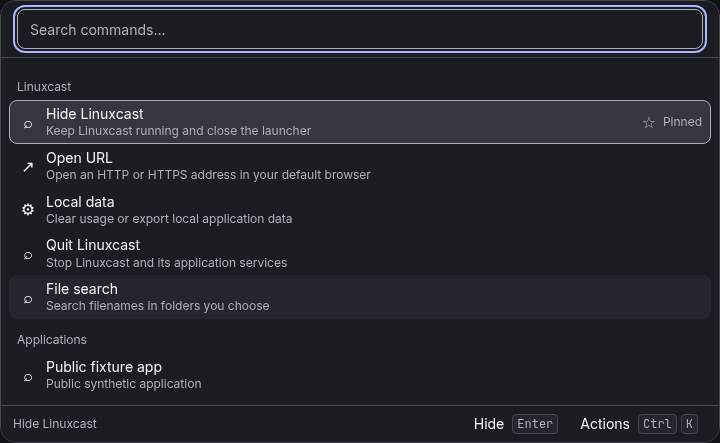
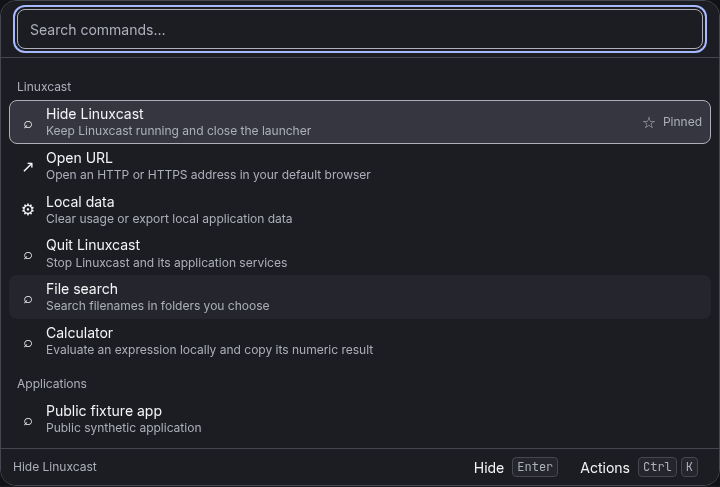
Verify real calculator clipboard flow and record acceptance evidence

diff --git a/apps/desktop/tests/calculator.integration.test.ts b/apps/desktop/tests/calculator.integration.test.ts
@@ -29,8 +29,8 @@ it('evaluates through the production launcher and copies only an explicit numeri
   const app=application,page=await app.firstWindow();await page.waitForURL('linuxcast-app://shell/index.html');
   await app.evaluate(async({clipboard})=>{await clipboard.writeText('PUBLIC_CLIPBOARD_SENTINEL');});expect(clipboardText()).toBe('PUBLIC_CLIPBOARD_SENTINEL');
   const query=page.getByRole('searchbox',{name:'Search commands',exact:true});await query.waitFor();await query.fill('ordinary words about tomorrow');await expect.poll(()=>page.getByRole('option').count()).toBe(0);expect(clipboardText()).toBe('PUBLIC_CLIPBOARD_SENTINEL');
-  const open=async()=>{await query.fill('calculator');await expect.poll(()=>page.getByRole('option',{selected:true}).textContent()).toContain('Calculator');await query.press('Enter');await page.getByRole('textbox',{name:'Expression',exact:true}).waitFor();};
-  await open();const expression=page.getByRole('textbox',{name:'Expression',exact:true});await expression.fill('2 + 3 * 4');expect(clipboardText()).toBe('PUBLIC_CLIPBOARD_SENTINEL');
+  const open=async()=>{await query.fill('calculator');await expect.poll(()=>page.getByRole('option',{selected:true}).textContent()).toContain('Calculator');await query.press('Enter');await page.getByRole('textbox',{name:'Expression (required)',exact:true}).waitFor();};
+  await open();const expression=page.getByRole('textbox',{name:'Expression (required)',exact:true});await expression.fill('2 + 3 * 4');expect(clipboardText()).toBe('PUBLIC_CLIPBOARD_SENTINEL');
   await page.getByRole('button',{name:'Evaluate',exact:true}).click();await page.getByRole('heading',{name:'Calculation',exact:true}).waitFor();await expect.poll(()=>page.getByText('14',{exact:true}).count()).toBe(1);expect(clipboardText()).toBe('PUBLIC_CLIPBOARD_SENTINEL');
   const evidence=join(root,'packages/builtins/calculator/evidence');mkdirSync(evidence,{recursive:true});
   for(const theme of ['dark','light'] as const){await app.evaluate(({nativeTheme},value)=>{nativeTheme.themeSource=value;},theme);await expect.poll(()=>page.locator('.lc-theme').getAttribute('data-lc-theme')).toBe(theme);await page.screenshot({path:join(evidence,`application-${theme}-result.png`)});expect((await new AxeBuilder({page}).setLegacyMode().analyze()).violations).toEqual([]);}
@@ -44,7 +44,7 @@ it('evaluates through the production launcher and copies only an explicit numeri
   expect(await page.evaluate(async()=>await (window as unknown as {linuxcast:DesktopShellApi}).linuxcast.hideLauncher())).toMatchObject({ok:true});
   await expect.poll(()=>app.evaluate(({BrowserWindow})=>BrowserWindow.getAllWindows()[0]!.isVisible())).toBe(false);
   await new Promise<void>((resolve,reject)=>{const child=spawn(executable,[wrapper,'--show'],{env,stdio:'ignore'});const timer=setTimeout(()=>{child.kill('SIGKILL');reject(new Error('Reopen deadline.'));},10000);child.once('error',reject);child.once('exit',code=>{clearTimeout(timer);if(code===0)resolve();else reject(new Error('Reopen failed.'));});});
-  await query.waitFor();await expect.poll(()=>page.getByRole('textbox',{name:'Expression',exact:true}).count()).toBe(0);expect(clipboardText()).toBe('521');
+  await query.waitFor();await expect.poll(()=>page.getByRole('textbox',{name:'Expression (required)',exact:true}).count()).toBe(0);expect(clipboardText()).toBe('521');
   await query.fill('quit');await expect.poll(()=>page.getByRole('option',{selected:true}).textContent()).toContain('Quit Linuxcast');const exited=new Promise<number|null>(resolve=>app.process().once('exit',resolve));await query.press('Enter',{noWaitAfter:true});expect(await exited).toBe(0);application=undefined;
   const owner=await StorageOwner.open({dataDirectory:join(temporary,'data/linuxcast'),applicationBuild:'synthetic-calculator-reopen'});
   try{const exported=owner.request({schemaVersion:1,requestId:randomUUID(),method:'dataControls.export',params:{category:'command-usage'}});expect(exported.result).toMatchObject({records:expect.arrayContaining([expect.objectContaining({commandId:'linuxcast:calculator',useCount:2})])});const text=JSON.stringify(exported);for(const expression of ['2 + 3 * 4',secondExpression,'process.exit()','1 / 0'])expect(text).not.toContain(expression);}finally{await owner.close();}

diff --git a/apps/desktop/src/features/launcher/tests/calculator-routing.test.ts b/apps/desktop/src/features/launcher/tests/calculator-routing.test.ts
@@ -1,0 +1,28 @@
+import { afterEach,expect,it,vi } from 'vitest';
+import type { CalculatorCopyReply,LauncherApi } from '@linuxcast/contracts';
+import { LauncherController } from '../controller.ts';
+const controllers:LauncherController[]=[];
+afterEach(()=>{for(const controller of controllers.splice(0))controller.dispose();});
+const settle=()=>new Promise(resolve=>setTimeout(resolve,0));
+function setup(copyCalculatorResult:NonNullable<LauncherApi['copyCalculatorResult']>=vi.fn<NonNullable<LauncherApi['copyCalculatorResult']>>(async()=>({ok:true,value:{outcome:'copied',text:'6'}}))){
+  let revision=1;
+  const api:LauncherApi={copyCalculatorResult,getLauncherCommands:vi.fn<LauncherApi['getLauncherCommands']>(async()=>({ok:true,value:{revision,rankingAvailable:true,commands:[{id:'linuxcast:calculator',title:'Calculator',aliases:['calc'],keywords:['math'],enabled:true,usage:null}]}})),executeLauncherCommand:vi.fn(),openLauncherUrl:vi.fn(),setLauncherPinned:vi.fn(),setLauncherAlias:vi.fn()};
+  const controller=new LauncherController(api,vi.fn(async()=>({ok:true as const,value:null})));controllers.push(controller);controller.setVisible(true);
+  return {api,controller,nextRevision:()=>{revision++;}};
+}
+function top(f:ReturnType<typeof setup>){return f.controller.session.getSnapshot().frames.at(-1)!;}
+async function open(f:ReturnType<typeof setup>){const frame=top(f);f.controller.session.select(frame.view.viewId,'linuxcast:calculator');await f.controller.execute({viewId:frame.view.viewId,revision:frame.view.revision,actionId:'linuxcast:calculator',itemId:'linuxcast:calculator'});}
+async function evaluate(f:ReturnType<typeof setup>){const frame=top(f);await f.controller.execute({viewId:frame.view.viewId,revision:frame.view.revision,actionId:'calculator:evaluate',values:{expression:'3+3'}});}
+function copy(f:ReturnType<typeof setup>){const frame=top(f);return f.controller.execute({viewId:frame.view.viewId,revision:frame.view.revision,actionId:'calculator:copy'});}
+it('routes an explicitly selected Calculator into local views and sends no expression until Copy result',async()=>{
+  const f=setup();await settle();await open(f);expect(top(f).view).toMatchObject({kind:'form',title:'Calculator'});await evaluate(f);expect(top(f).view).toMatchObject({kind:'detail',title:'Calculation',metadata:[{label:'Expression',value:'3+3'},{label:'Result',value:'6'}]});
+  expect(f.api.executeLauncherCommand).not.toHaveBeenCalled();expect(f.api.copyCalculatorResult).not.toHaveBeenCalled();expect(f.api.getLauncherCommands).toHaveBeenCalledTimes(1);
+  await copy(f);expect(f.api.copyCalculatorResult).toHaveBeenCalledExactlyOnceWith({revision:1,expression:'3+3'});
+});
+it('clears both calculator frames on Hide, ignores late copy receipts and reopens with a fresh registry revision',async()=>{
+  let finish!:(reply:CalculatorCopyReply)=>void;const writer=vi.fn<NonNullable<LauncherApi['copyCalculatorResult']>>().mockImplementationOnce(()=>new Promise(resolve=>{finish=resolve;})).mockResolvedValue({ok:true,value:{outcome:'copied',text:'6'}});
+  const f=setup(writer);await settle();await open(f);await evaluate(f);const pending=copy(f);f.controller.setVisible(false);await pending;expect(f.controller.session.getSnapshot().frames).toHaveLength(1);
+  f.nextRevision();f.controller.setVisible(true);await settle();await open(f);expect(top(f).view).toMatchObject({kind:'form',fields:[{id:'expression',value:''}]});
+  finish({ok:true,value:{outcome:'copied',text:'6'}});await settle();expect(top(f).view.kind).toBe('form');expect(top(f).view.status?.message??'').not.toContain('copied');
+  await evaluate(f);await copy(f);expect(writer).toHaveBeenLastCalledWith({revision:2,expression:'3+3'});
+});

diff --git a/docs/implementation/tasks/L2-04.md b/docs/implementation/tasks/L2-04.md
@@ -40,11 +40,19 @@ Shared contracts, dependency manifests, lockfiles, migration numbering and task 
 
 ## Acceptance
 
-- [ ] **pending** `L2-04-AC01` — No eval or background query transmission; ordinary words do not hijack search.
+- [x] **passed** `L2-04-AC01` — No eval or background query transmission; ordinary words do not hijack search.
+  - Command/check: `bun run test:unit -- L2-04; bun run test:ui -- L2-04; LINUXCAST_PRIVATE_DISPLAY=1 xvfb-run -a bun run test:integration -- L2-04`.
+    Outcome: Current arithmetic/functions implementation uses the reviewed bounded pure parser (e52a755/src/evaluate.ts), no eval/newFunction/dynamic execution/I/O/network.157 independent grammar/domain/resource fixtures plus29presentation and2launcher routing checks pass; explicit Evaluate is local and Copy is the sole expression IPC. Actual production private-Xvfb flow confirms ordinary-word query produces no calculator result or clipboard action.10browser checks observe no external requests; renderer CSP denies arbitrary connections. Full units/dates/colours/explicit-rate scope remains pending under AC02, not inferred complete.
+    Platform/backend: Linux amd64 development host; verified Node24.22.1/Bun1.4.4, Electron45.0.0/SQLite3.53.4; private Xvfb/X11 with separate native xclip reader and Chromium fixtures. No supported Debian/GNOME/KDE/native AT or release claim.
+    Reference: e52a755/44960d8/35a93e9; packages/builtins/calculator/src/evaluate.ts; packages/builtins/calculator/README.md; packages/builtins/calculator/GRAMMAR.md; apps/desktop/tests/calculator.integration.test.ts; packages/builtins/calculator/evidence/
 - [ ] **pending** `L2-04-AC02` — DST/unit/colour fixtures pass and stale/offline rates are labelled.
 - [ ] **pending** `L2-04-UI` — Relevant design states and keyboard/accessibility paths are covered for user-facing changes.
   - Applies when: This task introduces or changes user-facing behaviour.
-- [ ] **pending** `L2-04-PRIVACY` — No secrets/private content enter fixtures, diagnostics or screenshots.
+- [x] **passed** `L2-04-PRIVACY` — No secrets/private content enter fixtures, diagnostics or screenshots.
+  - Command/check: `bun run test:unit -- L2-04; bun run test:ui -- L2-04; LINUXCAST_PRIVATE_DISPLAY=1 xvfb-run -a bun run test:integration -- L2-04`.
+    Outcome: Only public synthetic expressions appear in fixtures/screenshots. Parser and main/preload use fixed safe failures. Actual private-Xvfb/native xclip check uses isolated HOME/XDG/profile/display; real post-Quit owner command-usage export contains only aggregate count2 and none of the evaluated/invalid expressions. No expression/result history or raw clipboard content logging is introduced. Evidence README.md, GRAMMAR.md, calculator.integration.test.ts and inspected dark/light/affected-state PNGs.
+    Platform/backend: Linux amd64 development host; verified Node24.22.1/Bun1.4.4, Electron45.0.0/SQLite3.53.4; private Xvfb/X11 with separate native xclip reader and Chromium fixtures. No supported Debian/GNOME/KDE/native AT or release claim.
+    Reference: e52a755/44960d8/35a93e9; packages/builtins/calculator/src/evaluate.ts; packages/builtins/calculator/README.md; packages/builtins/calculator/GRAMMAR.md; apps/desktop/tests/calculator.integration.test.ts; packages/builtins/calculator/evidence/
 
 ## Validation
 
@@ -59,11 +67,13 @@ bun run test:unit -- L2-04
 
 Coordinator records the implementation PR/commit, check outcomes, desktop/backend versions where relevant, visual evidence for UI changes, and any outstanding limitation in `tasks.json`. Do not mark done merely because the document or a mock exists.
 
-No completion evidence recorded.
+- Bounded local arithmetic/functions calculator26October2026: shared package/contracts7cb0f34; pure evaluator author4b84ffb integratede52a755; presentation author7982f0a integrated35a93e9; coordinator launcher/main/preload44960d8 and final routing/production evidence. All authors/reviewer GPT-6.1 SOL high; final independent source review clean. Full task remains in-progress.
+- Pinned Node24.22.1/Bun1.4.4/Electron45/SQLite3.53.4 checks PASS:188calculator units (157evaluator/29presentation/2launcherrouting),41main/preload security checks,2calculator contracts,10Chromium keyboard/axe checks,108launcher regression units; typecheck/lint/plan/diff. Exact suite mapping scripts/test-runner/suites.json; grammar/semantics and limitations packages/builtins/calculator/GRAMMAR.md and README.md.
+- Actual production Electron/private-Xvfb/native xclip flow2.39s PASS: ordinary words do not hijack root search; typing/Evaluate never copy; explicit Copy writes real CLIPBOARD14and521; invalid/domain input does not write; unavailable session and explicit recovery work; Hide removes both nested calculator views and real single-instance reopen does not replay; after Quit real owner usage export count2 omits expressions/results. Actual dark/light result screenshots inspected and axe passes. Existing real application/URL/alias/pin/data/restart7.18s regression passes. Smoke durations do not establish performance acceptance.
+- Main parses/recomputes finite numeric output, validates exact own frame/revision/schema, exposes only named numeric-copy IPC, awaits Electron45 async write/readback and retains unresolved copy slot after4s unknown receipt. Copy does not block Hide/Quit or automatically replay. Renderer evaluates only explicit form submit; readonly semantic metadata, exact ack-text validation, pending/back/hide/dispose guards and fresh registry reload on calculator close. No content persistence, remote rate source, arbitrary clipboard writer, paste or PRIMARY access.
 
 ## Outstanding limitations
 
-- First bounded application increment under development: explicit local arithmetic/functions evaluation through registered Calculator shared Form/Detail and numeric-result-only Copy action. No full-task acceptance claim.
-- Units, dates/timezones/DST, colours and opt-in configured currency/crypto rate adapters/cache remain required. No remote provider, endpoint or background query transmission is added.
-- F2-01 accepted; reviewed existing L1-01 shell/search/UI interfaces reused under user-authorized unfinished incremental integration. Broader L1-01 and native UI/session/assistive-technology/installed-package/release acceptance remain pending.
-- Expressions/results are ephemeral and must not enter usage history, exports, diagnostics or screenshot fixtures containing private data. Actual clipboard checks must use a private Xvfb display, not the user clipboard.
+- Reviewed arithmetic/functions and explicit numeric-result Copy increment only; full L2-04 remains in-progress. Units, dates/durations/timezones/DST, colours and opt-in configured currency/crypto rate adapters, timestamped fixture-backed cache and stale/offline states remain required.
+- Arithmetic is approximate IEEE754 with display up to15significantdigits; unsafe integers are not exact. See GRAMMAR.md for percent, precedence, radians/domain and extreme-number rounding. No remote provider/endpoint or background query transmission is added.
+- F2-01 accepted; reviewed existing L1-01 shell/search/UI interfaces reused under user-authorized unfinished incremental integration. Broader L1-01, native Debian13 GNOME/KDE Wayland/X11, assistive-technology, installed-package and release acceptance remain pending. Private-Xvfb/X11 clipboard evidence does not establish the supported desktop matrix or paste behavior.

diff --git a/docs/implementation/PROGRESS.md b/docs/implementation/PROGRESS.md
@@ -103,3 +103,11 @@ All running agents explicitly GPT-6.1 SOL high. manifest_review_sol owns only ca
 Root freezes bounded512UTF8 expression request/finite64char numeric reply and package/manifests/pinnedlock. Local parser supports bounded arithmetic/functions without eval or network. Explicit sharedForm Evaluate -> readonly sharedDetail -> explicitCopy. Root re-evaluates before numeric-only clipboardwrite. Verified installed Electron45 uses async clipboard promises; awaiting actualwrite/readback and a4second presentationreceipt bound while retaining unresolvedcopy slot prevents overtaking, withoutblockingHide/Quit. Content neverpersists; only successfulcopy aggregatecommandusage recorded. Typecheck/tests/actualprivateXvfb/independentreview still pending.
 
 Complete L2-04 units/dates/timezones/DST/colours and opt-in explicitrate adapters/cache remain required. No ordinary-query hijack or backgroundtransmission; all nativeGNOME/KDE/Wayland/X11/AT/package/release gates remain outstanding. Nextactions finishauthors, integrateandtestrealprivateclipboard viaxclip, review/fix, focusedPR/normalmerge.
+
+## L2-04 reviewed application candidate ready for PR
+
+Coordinator .worktrees/linuxcast-application-controls / codex/calculator-flow at35a93e9 plus final reviewed routingtests/evidence/maps. Shared7cb0f34, evaluatore52a755(source4b84ffb), main/preload/routing44960d8, presentation35a93e9(source7982f0a). All SOLhigh authors/reviewer completed, finalboundedsource reviewclean; no test process remains after final checks.
+
+PASS188calculatorunit/41main-preloadsecurity/2contracts/10browser keyboardaxe,108launcherunits, typecheck/lint/plan/diff. Actual packagedElectron45/SQLite3.53.4/private-Xvfb plus independentnativexclip2.39s: ordinarywordsno hijack, typing/evaluatenocopy, explicitnumericcopy14/521, invalid/domainnowrite, unsupported-session/manualrecovery, Hidepopstwoframes/reopenno replay, realownerexportcount2without expressions/results. Actualdark/lightresults inspectedandaxe passes. Existingactualapplication/URL/alias/pin/data/restart7.18s passes. Testonly initialfailures corrected: requiredaccessiblefieldlabel; routefixturetyping/undefinedassertion. No productworkaround/nativeacceptanceclaim.
+
+AC01/noeval-backgroundtransmission-queryhijack andPRIVACY nowpassed with exact currentimplementationevidence; AC02/fullconversion-rate andUInative acceptance remainpending. Fulltaskin-progress;units/dates/timezones/DST/colours/explicitconfiguredrates/cache stillrequired. Remaining nowfinalevidencecommit/push/PR/current-headCI+reviewinspect/normalmerge, refreshprimary anddurablecheckpoint. No scope reduction or new infrastructure/proof work; goalACTIVE.

diff --git a/packages/builtins/calculator/README.md b/packages/builtins/calculator/README.md
@@ -67,3 +67,33 @@ dates/timezones/DST, colours, configured currency/crypto adapters, timestamped
 fixture-backed cache and stale/offline rate behavior remain required. Debian
 GNOME/KDE Wayland/X11, native assistive technology and full release acceptance
 remain pending. The complete local 1.0 scope is unchanged.
+
+## Integrated application evidence
+
+Coordinator checks on Node24.22.1, Bun1.4.4, Electron45.0.0 and SQLite3.53.4
+pass:188calculator unit checks (157evaluator,29presentation,2launcherrouting),
+41main/preload security checks,2contract checks,10Chromium keyboard/axe checks,
+typecheck/lint/plan/diff. The existing108launcher unit checks pass.
+The production application check completes in2.39seconds using a private Xvfb
+profile, real packaged Electron/SQLite and a separate native xclip reader. It
+verifies that ordinary words do not select Calculator; typing and Evaluate do
+not change the clipboard; explicit Copy copies14and521 into the actual private
+CLIPBOARD; invalid expressions/division byzero do not copy; an unavailable
+session returns a known failure and only explicit retry after recovery writes.
+Hide removes both nested calculator views; real single-instance reopen shows
+the launcher and preserves the clipboard without replay. After Quit, the actual
+sole owner exports only aggregate calculator usage count2, without expressions
+or result history. The actual dark/light screenshots in evidence/application-
+{dark,light}-result.png were inspected and axe passes both themes. No clipboard
+operation uses the user's display or private content.
+
+Existing actual application/URL/alias/pin/data/restart regression passes7.18seconds.
+These synthetic smoke durations are not performance acceptance measurements.
+Independent GPT-6.1 SOL/high source review is clean across evaluator, contract,
+main/preload, presentation and launcher hide/back/stale-revision lifecycle. The
+clipboard action uses Electron45's async system clipboard promises, awaits
+write/readback, and retains an unresolved write's slot after its four-second
+unknown-outcome receipt so another copy cannot overtake it. Hide/Quit remain
+available. No automatic replay, paste, PRIMARY or clipboard-history read is
+added; native GNOME/KDE Wayland/X11, assistive-technology, installed package and
+release acceptance remain pending.
